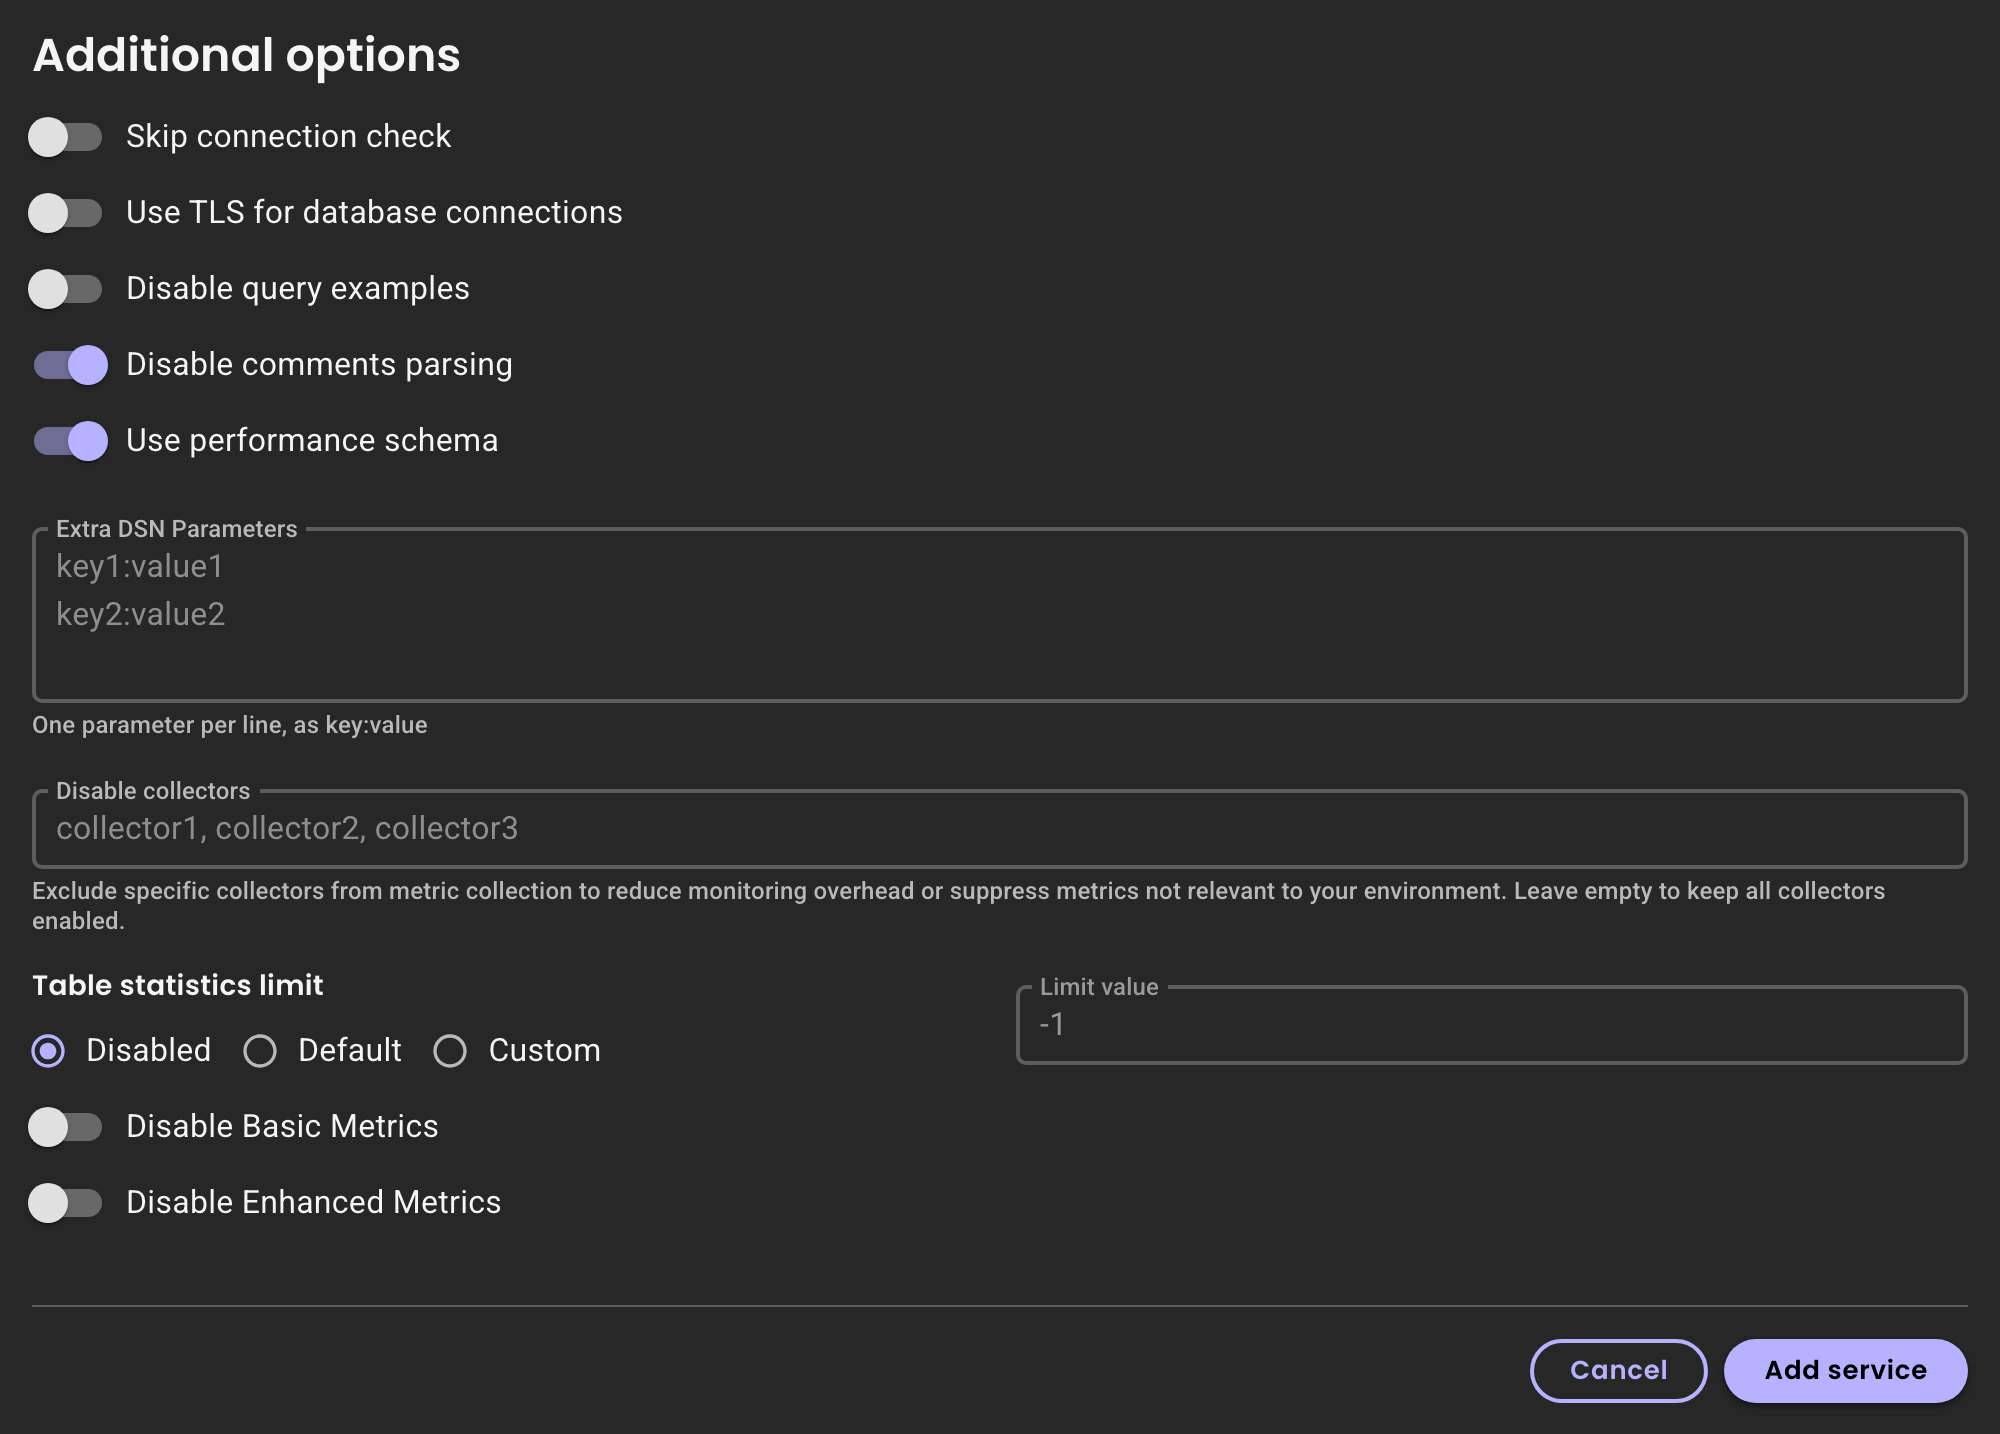
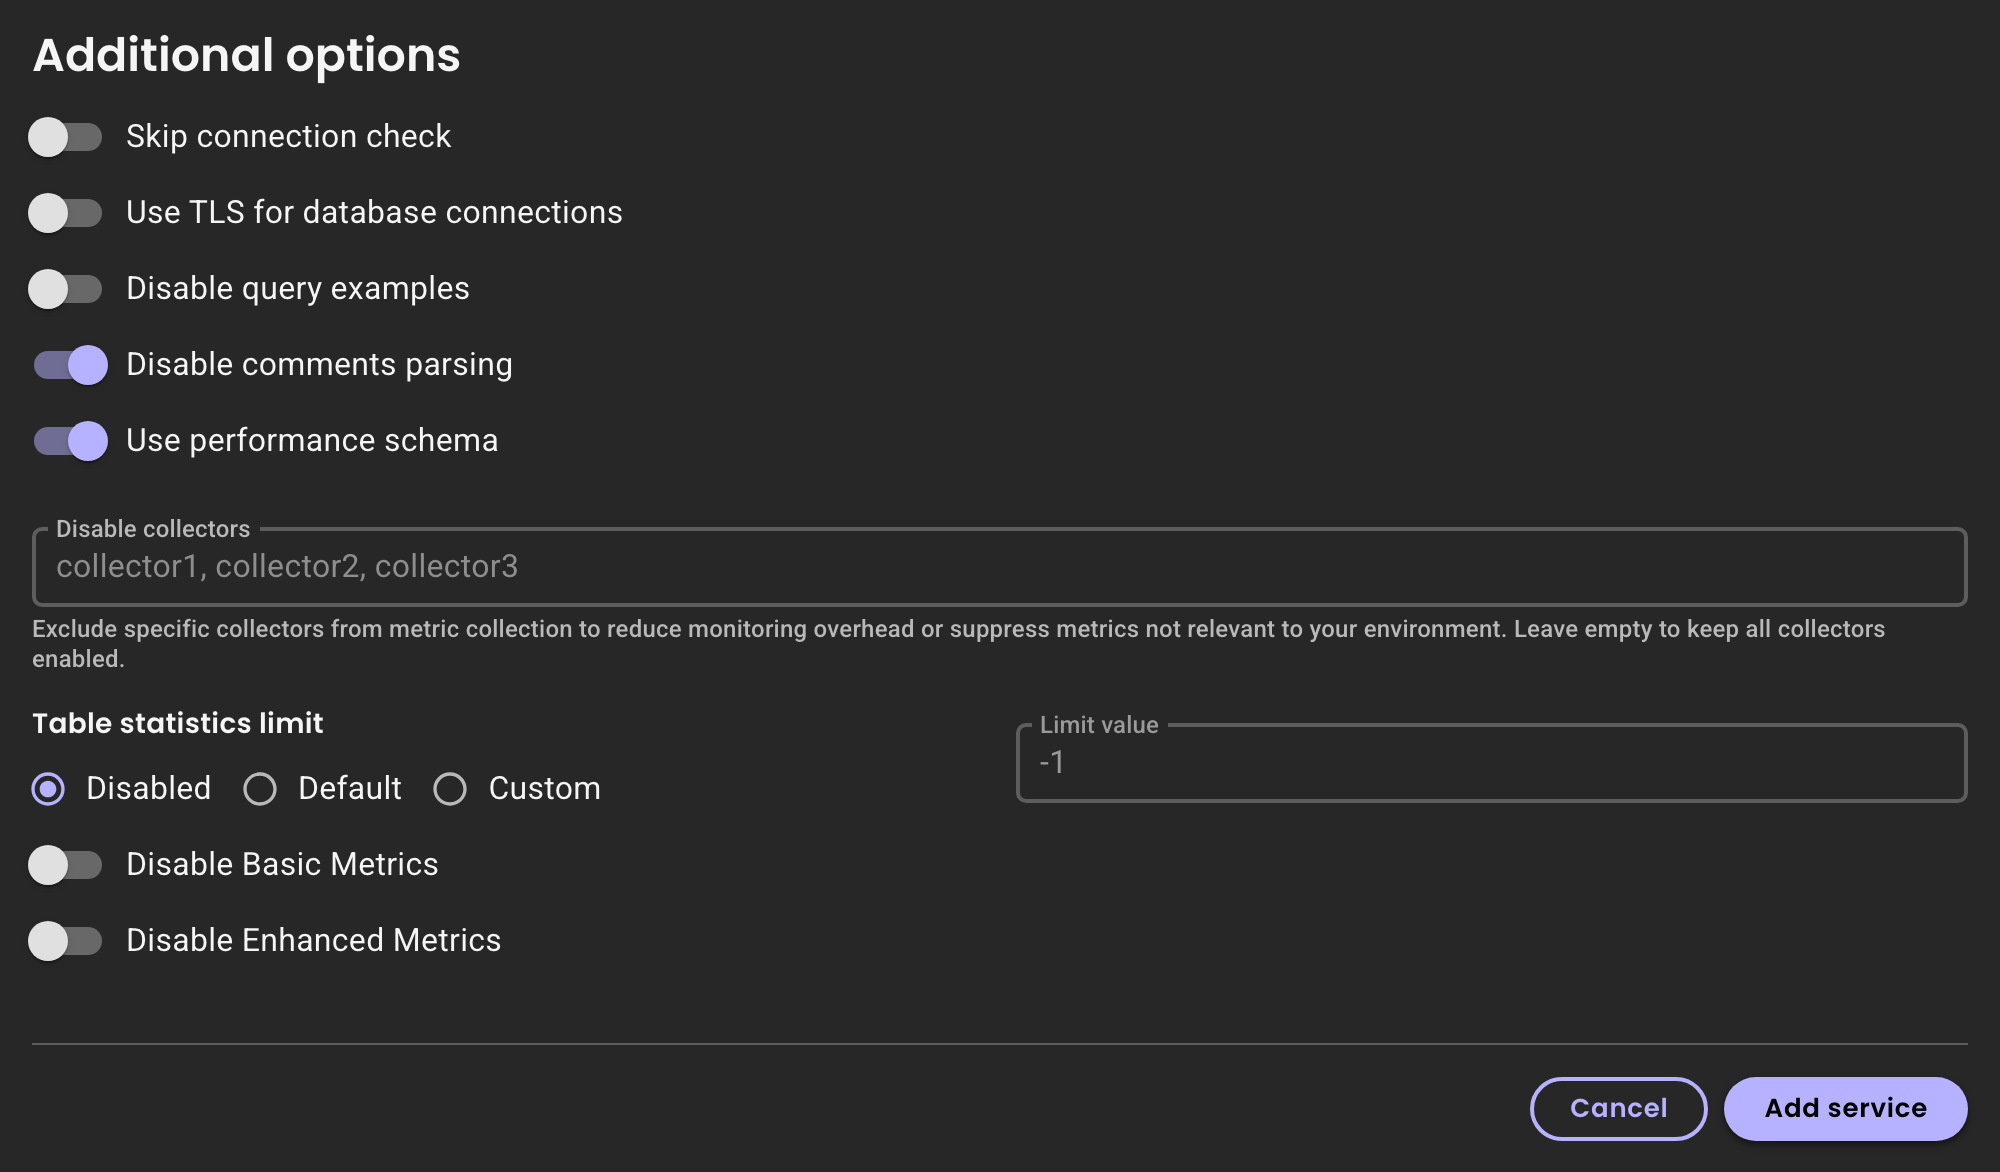
PMM-15003 Drop hidden RDS fields from the docs
The RDS form no longer shows Max query length or Extra DSN
Parameters, which the RDS API doesn't take. Remove the Max query
length sentence from aws.md and recapture the RDS screenshots that
showed both fields.

diff --git a/documentation/docs/install-pmm/install-pmm-client/connect-database/aws.md b/documentation/docs/install-pmm/install-pmm-client/connect-database/aws.md
@@ -199,7 +199,7 @@ The following steps are needed to add an Amazon RDS database instance to PMM:
 
     ![!](../../../images/PMM_Add_Instance_AWS_RDS_Main_Details.png)
 
-    The **Main details** section shows the DNS hostname of your instance, which PMM takes from AWS. In this section, you set the service name to use within PMM, the node and agent that monitor the instance, the port your service is listening on, the database username and password, and the **Instance ID** that matches your RDS instance between PMM and the AWS console. **Max query length** takes a number; enter `-1` for no limit. Set **Connection timeout** to control how long PMM waits when connecting to the instance. Leave empty to use the default of 2s.
+    The **Main details** section shows the DNS hostname of your instance, which PMM takes from AWS. In this section, you set the service name to use within PMM, the node and agent that monitor the instance, the port your service is listening on, the database username and password, and the **Instance ID** that matches your RDS instance between PMM and the AWS console. Set **Connection timeout** to control how long PMM waits when connecting to the instance. Leave empty to use the default of 2s.
 
     ![!image](../../../images/PMM_Add_Instance_AWS_RDS_Labels.png)
 
